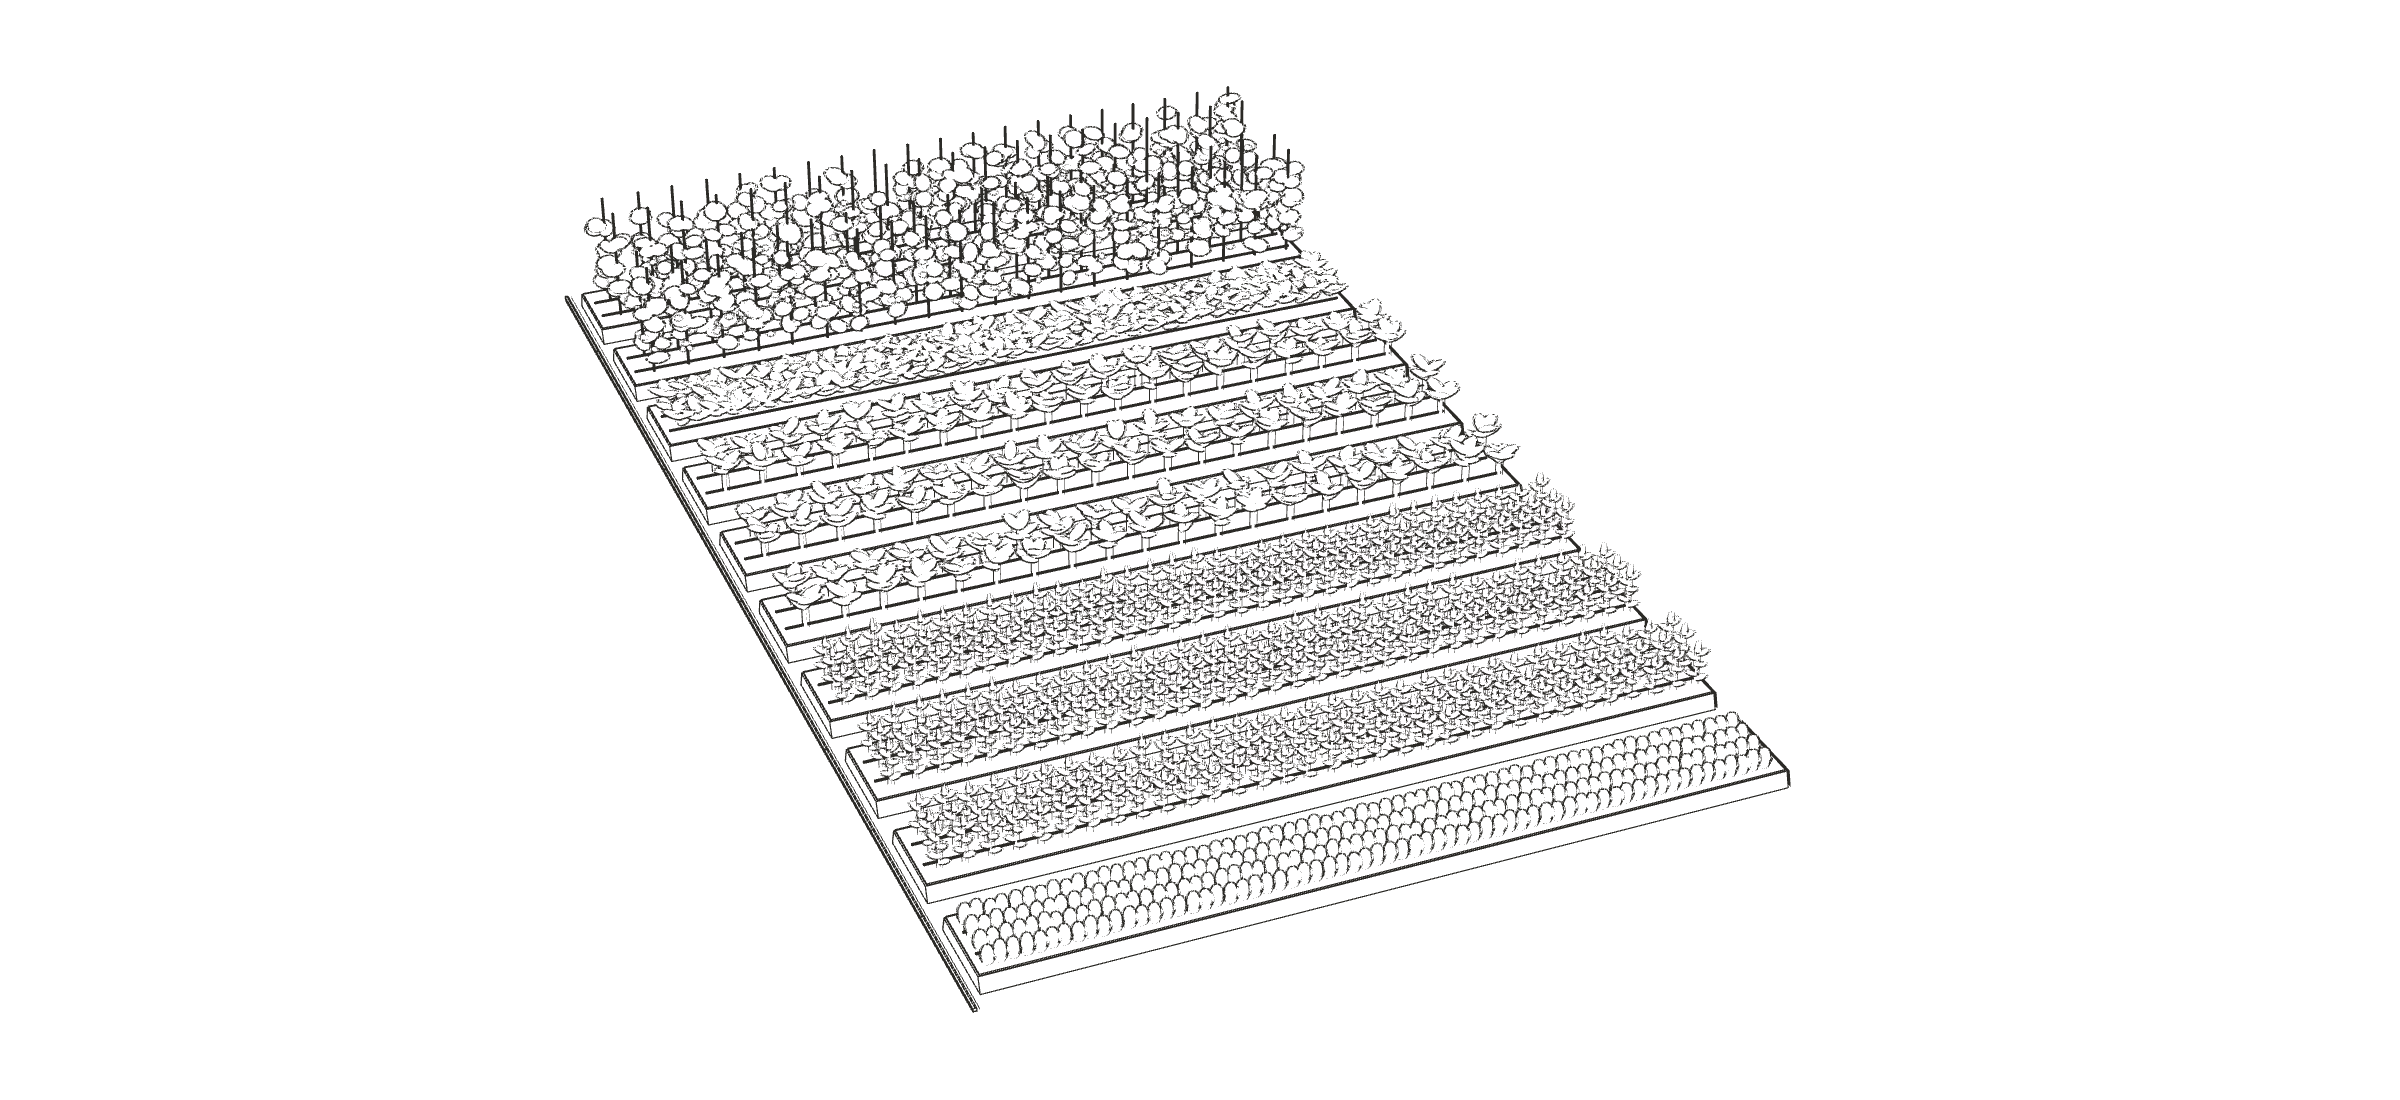
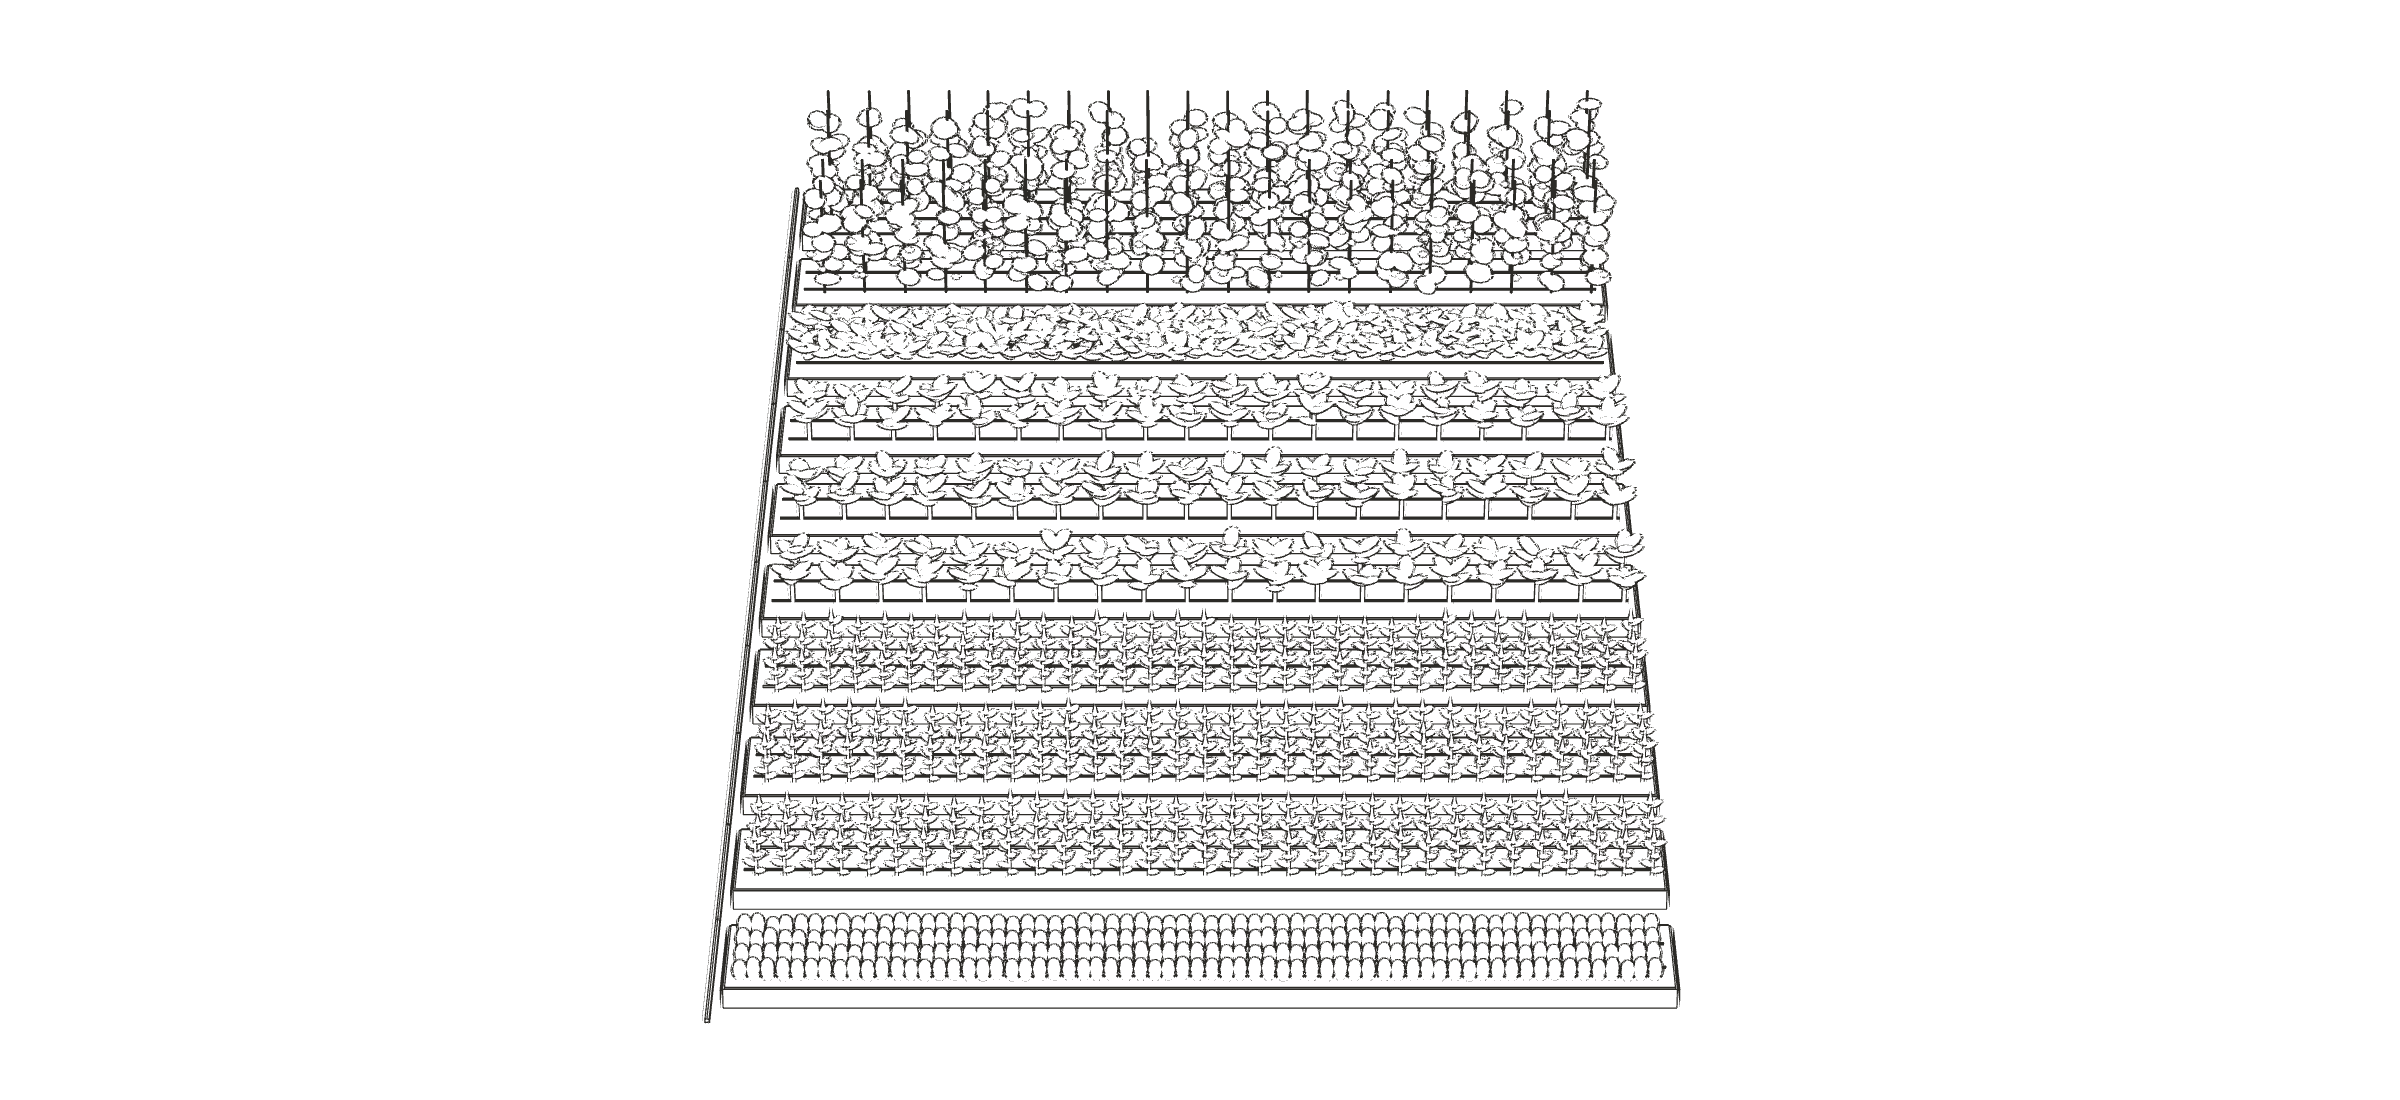
feat(farming): the field's 3D on the white page, straight on; Nano Banana handoff; D-048
The founder asked to do /en/farming as livestock was done. The 3D drops the lawn
for the white page and looks straight on from the main path, as the studio's and
the livestock yard's. The hero waits for a Nano Banana remake in the livestock
hero's place and light.

Claude-Session: https://claude.ai/code/session_01S6J7HfcfzMCDbDDKUuUjeQ

Changed region(s): [[0.2188, 0.0927, 0.75, 0.9273]]

diff --git a/scripts/site/render/farming.html b/scripts/site/render/farming.html
@@ -5,7 +5,7 @@
   (public/designs/farming/data/plan.json, written by scripts/site/farming.mjs).
 
     ?mode=line              the block from the main path, line drawing on a transparent ground -> render/field-line.png
-    ?mode=real              the same view with soil, plants and low sun                          -> render/field-real.webp
+    ?mode=real              the same view with soil, plants and low sun, on the white page       -> render/field-real.webp
     ?top=<layer>            the block from straight above, beds standing up the picture, for the Field build-up:
                               ground (opaque) | beds | compost | drip | plants (transparent)  -> render/top-<layer>.webp
                               window.PIECES holds each bed's rectangle as fractions of the picture
@@ -165,10 +165,7 @@ const M = 0.7 // ground past the block on each side
 if (!ITEM) {
   if (REAL) { T.path.repeat.set((BW + 2 * M) / 3, (BH + 2 * M) / 3) }
   add(new THREE.PlaneGeometry(BW + 2 * M, BH + 2 * M), "path", { pos: [BW / 2, 0, BH / 2], rot: [-Math.PI / 2, 0, 0], edges: false })
-  if (REAL && !TOP) {
-    T.grass.repeat.set(30, 30)
-    add(new THREE.PlaneGeometry(120, 120), "grass", { pos: [BW / 2, -0.01, BH / 2], rot: [-Math.PI / 2, 0, 0], edges: false })
-  }
+  // no lawn round it: the block stands on the white page, as the studio's and the livestock yard's 3D
 }
 
 // ------------------------------------------------------------ plants, one shape per crop
@@ -273,8 +270,9 @@ if (TOP) {
   }
 } else {
   const target = new THREE.Vector3(BW / 2, 0.3, BH / 2)
-  const [el, az, dist] = ITEM ? [THREE.MathUtils.degToRad(30), THREE.MathUtils.degToRad(-30), 9] : [THREE.MathUtils.degToRad(32), THREE.MathUtils.degToRad(-22), 48]
-  camera = new THREE.PerspectiveCamera(ITEM ? 30 : 24, FW / FH, 0.5, 300)
+  // straight on from the main path, as the studio's and the livestock yard's 3D, from far off with a long lens
+  const [el, az, dist] = ITEM ? [THREE.MathUtils.degToRad(30), THREE.MathUtils.degToRad(-30), 9] : [THREE.MathUtils.degToRad(34), 0, 70]
+  camera = new THREE.PerspectiveCamera(ITEM ? 30 : 18, FW / FH, 0.5, 300)
   camera.position.set(target.x + dist * Math.cos(el) * Math.sin(az), target.y + dist * Math.sin(el), target.z + dist * Math.cos(el) * Math.cos(az))
   camera.lookAt(target)
   camera.updateMatrixWorld(); camera.updateProjectionMatrix()
@@ -322,6 +320,12 @@ if (LINE) {
   Object.assign(sun.shadow.camera, { left: -14, right: 14, top: 14, bottom: -14, near: 1, far: 80 })
   sun.shadow.bias = -0.0003; sun.shadow.normalBias = 0.02; sun.shadow.radius = 3
   scene.add(sun)
+  if (!TOP && !ITEM) { // the white page round the block takes only the shadows
+    scene.background = new THREE.Color(12, 12, 12) // tone mapping would dim plain white to grey, so it starts brighter
+    const ground = new THREE.Mesh(new THREE.PlaneGeometry(80, 80), new THREE.ShadowMaterial({ opacity: 0.14 }))
+    ground.rotation.x = -Math.PI / 2; ground.position.set(BW / 2, -0.012, BH / 2); ground.receiveShadow = true
+    scene.add(ground)
+  }
   const composer = new EffectComposer(renderer)
   composer.setSize(FW, FH)
   composer.addPass(new RenderPass(scene, camera))

diff --git a/src/app/en/farming/page.tsx b/src/app/en/farming/page.tsx
@@ -49,8 +49,9 @@ export default function FarmingPage() {
   const bedsWide = plan.beds.length
   return (
     <main className="w-full flex-1">
-      {/* First screen: a STAND-IN until a photo of the planted field or the founder's remaster: the block by
-          the gate rendered from the main path (scripts/site/render/farming.html?mode=real). */}
+      {/* First screen: a STAND-IN until the founder's Nano Banana remaster (handoff in ~/Desktop/farming-nano-banana: the
+          livestock hero for the place and the light, the 3D, the 2D and a frame of the site footage). For now it is the
+          block by the gate rendered from the main path (scripts/site/render/farming.html?mode=real). */}
       <PageHero src={`${D}/render/field-real.webp`} width={2400} height={1100} className="bg-[#6f9a4a]" imgClassName="object-[50%_45%]"
         title="Everything on the plate, grown here"
         alt="Ten raised beds of red-brown soil on drip lines: herbs nearest, then amaranth, spinach, kale and staked tomatoes at the back, on a sandy path in the grass." />
@@ -81,8 +82,8 @@ export default function FarmingPage() {
           rendered. Both from scripts/site/render/farming.html. */}
       <ModelSection line={`${D}/render/field-line.png`} real={`${D}/render/field-real.webp`} width={2400} height={1100}
         caption={<>Rendered from the design model: the block by the gate, one season</>}
-        lineAlt="Line drawing of one block of ten raised beds seen from the main path: two drip lines along each bed, herbs in the nearest bed, then amaranth, spinach and kale, and tomatoes on stakes at the back."
-        realAlt="The same block rendered: red-brown beds with dark compost, black drip tape, herbs, wine-red amaranth, spinach, kale and staked tomatoes with red and yellow fruit, on a sandy path in the grass." />
+        lineAlt="Line drawing of one block of ten raised beds seen straight on from the main path: two drip lines along each bed, herbs in the nearest bed, then amaranth, spinach and kale, and tomatoes on stakes at the back."
+        realAlt="The same block rendered on the white page: red-brown beds with dark compost, black drip tape, herbs, wine-red amaranth, spinach, kale and staked tomatoes with red and yellow fruit, on a sandy path." />
 
       {/* Field, pinned while one block builds up in fast motion, seen from above: the bare ground, the raised
           beds, the compost, the drip lines, the planting. Renders: farming.html?top=<layer>. */}

diff --git a/src/lib/design-blur.generated.ts b/src/lib/design-blur.generated.ts
@@ -5,7 +5,7 @@ export const DESIGN_BLUR: Record<string, string> = {
[8 lines of base64/hex data omitted]

diff --git a/study/execution/decision-log.md b/study/execution/decision-log.md
@@ -171,3 +171,6 @@ Context: the founder generated the handoff's remake (`~/Desktop/livestock-nano-b
 
 **D-047 · 2026-10-29 · The livestock 2D and 3D follow the hero: no palisade, banana clumps and vegetable beds round the yard, the tank on stone, two sheep in the shed.**
 Context: the founder asked for the 2D and the 3D to follow the hero (D-046). Decision: `src/components/livestock/livestock.json` drops the palisade; the outline is one post-and-rail fence all round, open on the planting. Banana clumps stand behind the back fence and at the sides, shrubs along the sides, and two vegetable beds of cabbages and greens outside the front fence, where the herd cannot reach. The tank stands on a fieldstone base, earth-brown, with three black buckets beside it. Two sheep stand in the shed, as in the hero. The rest is unchanged (D-039 to D-045). Without the palisade the yard loses its windbreak: the back fence and the banana clumps are the only shelter on that side [A].
+
+**D-048 · 2026-10-29 · /en/farming's 3D stands on the white page, straight on; its hero goes to Nano Banana in the livestock hero's look.**
+Context: the founder asked to do /en/farming as /en/livestock was done. Decision: the field's 3D (`scripts/site/render/farming.html`) drops the lawn and stands on the white page with only its shadows, seen straight on from the main path with a long lens (34 degrees down), as the studio's and the livestock yard's 3D. The 2D already follows the studio's plan pattern and is unchanged. The hero stays the model render until the founder's Nano Banana remaster: the handoff (`~/Desktop/farming-nano-banana`) asks for the field photographed on the same farm as the livestock hero (D-046), its terraced hills, eucalyptus and banana plants and overcast light, with the beds, crops, fence and nursery of `src/components/farming/farming.json`, so the two pages read as one place.
